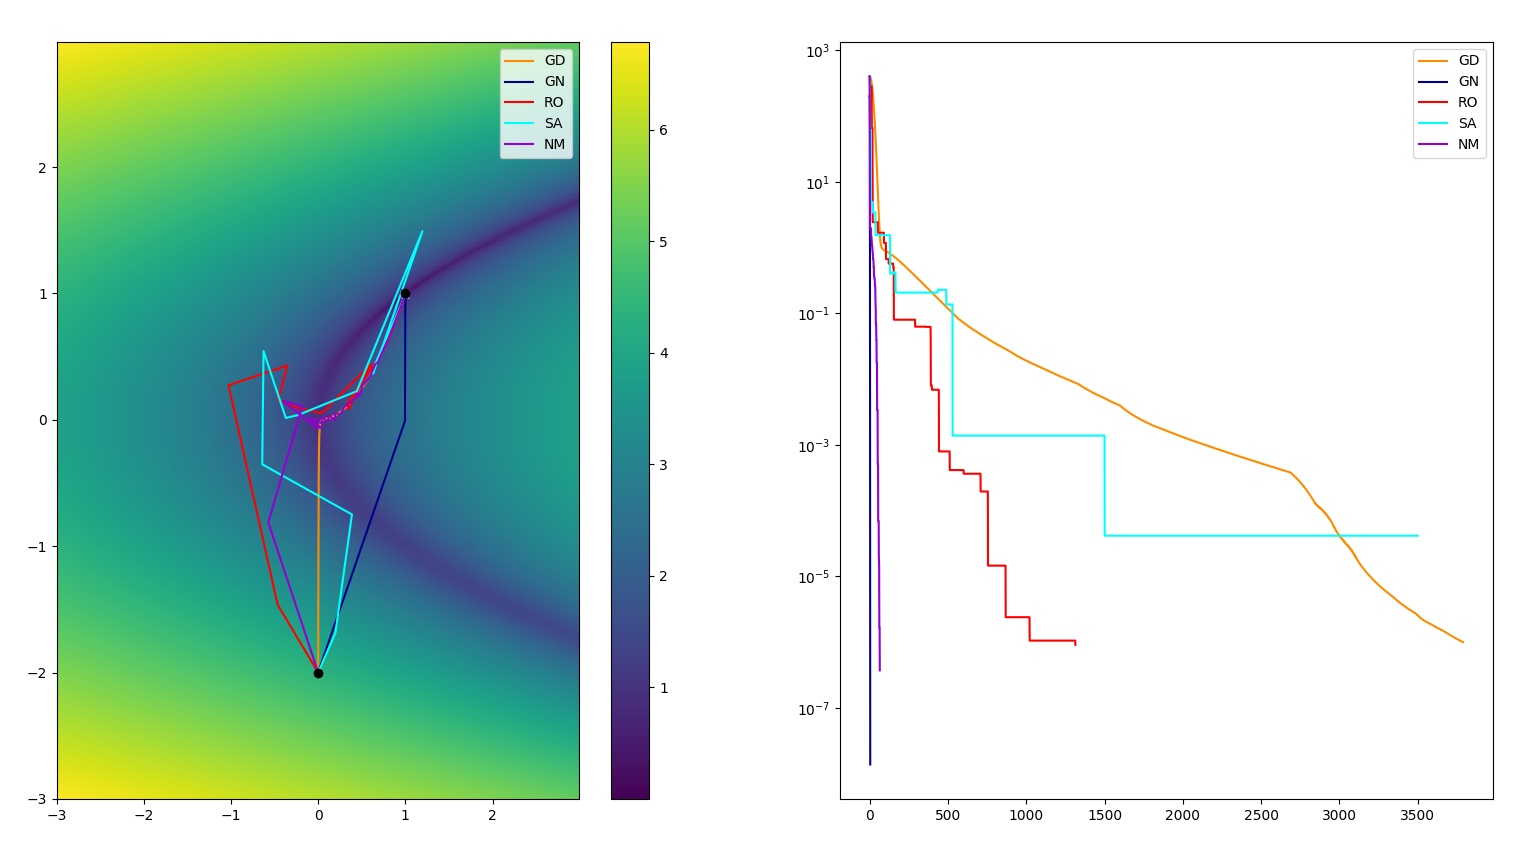
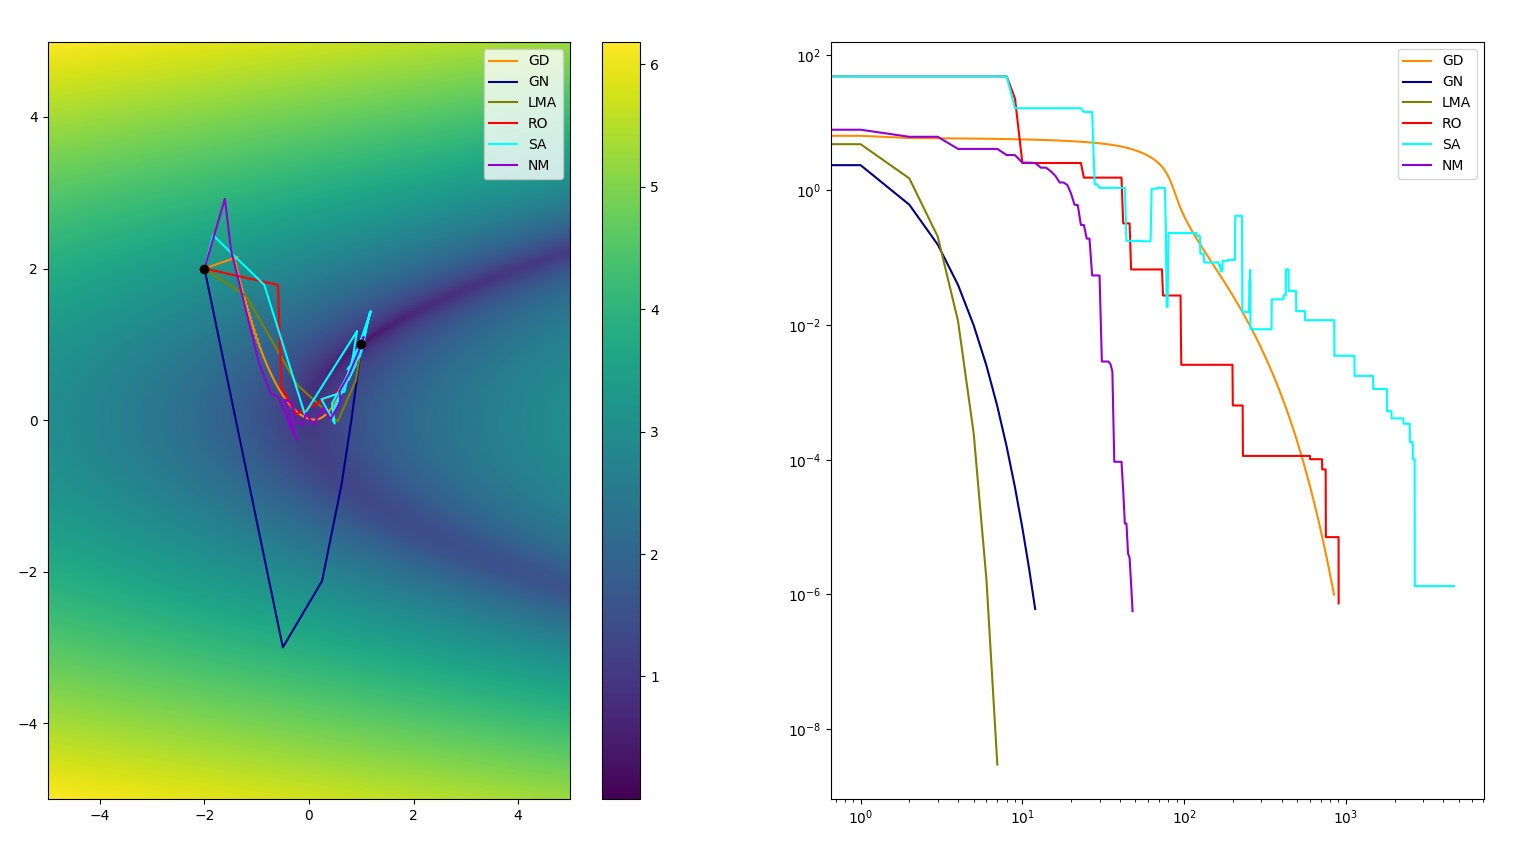
Update samples to include LMA

diff --git a/samples/sample_rosenbrock_minimization.py b/samples/sample_rosenbrock_minimization.py
@@ -5,6 +5,7 @@ from matplotlib import pyplot as plt
 
 from src.gauss_newton import GaussNewton
 from src.gradient_descent import GradientDescent
+from src.levenberg_marquardt import LevenbergMarquardt
 from src.nelder_mead import generate_init_test_points, NelderMead
 from src.random_optimization import RandomOptimization
 from src.simulated_annealing import SimulatedAnnealing
@@ -19,7 +20,7 @@ def f_update(param, k):
     return param + scaling_factors * np.random.randn(param.shape[0])
 
 
-def f_cost(param, a=1, b=100):
+def f_cost(param, a=1, b=10):
     return (a - param[0]) ** 2 + b * (param[1] - param[0] ** 2) ** 2
 
 
@@ -42,7 +43,7 @@ def f_err(param, a=1, b=100):
 def main():
     true_minimum = np.array([1, 1])
 
-    grid = np.arange(-3, 3, 0.01)
+    grid = np.arange(-5, 5, 0.01)
 
     grid_costs = []
     for i, p1 in enumerate(grid):
@@ -50,16 +51,18 @@ def main():
             cost = f_cost(np.array([p1, p2]))
             grid_costs.append(cost)
 
-    init_guess = np.array([0.0, -2.0])
+    # init_guess = np.array([0.0, -2.0])
+    init_guess = np.array([-2.0, 2.0])
 
-    f_step = lambda _: (0, 4e-2)
+    f_step = lambda _: (0, 2e-2)
     f_scaling = lambda k: 0.995 ** k * np.ones(2)
     f_update = lambda p, k: p + 0.999 ** k * np.random.randn(2)
     f_temp = lambda k: 1.0 * np.exp(-0.01 * k)
     init_points_nm = generate_init_test_points(init_guess, 1.0)
     optimizers = {
         "GD": (GradientDescent(f_cost=f_cost, f_step=f_step), "darkorange"),
-        "GN": (GaussNewton(f_err=f_err), "darkblue"),
+        "GN": (GaussNewton(f_err=f_err, step_size_max_iter=0), "darkblue"),
+        "LMA": (LevenbergMarquardt(f_err=f_err), "olive"),
         "RO": (RandomOptimization(f_cost=f_cost, f_scaling=f_scaling), "red"),
         "SA": (SimulatedAnnealing(f_cost=f_cost, f_update=f_update, f_temp=f_temp), "cyan"),
         "NM": (NelderMead(f_cost=f_cost, init_test_points=init_points_nm), "darkviolet")
@@ -81,6 +84,7 @@ def main():
         plt.subplot(1, 2, 2)
         plt.plot(costs, "-", label=name, color=color)
         plt.yscale("log")
+        plt.xscale("log")
         plt.legend()
 
     plt.subplot(1, 2, 1)

diff --git a/samples/sample_cost_surface_visualization.py b/samples/sample_cost_surface_visualization.py
@@ -6,6 +6,7 @@ from matplotlib import pyplot as plt
 
 from src.gauss_newton import GaussNewton
 from src.gradient_descent import GradientDescent
+from src.levenberg_marquardt import LevenbergMarquardt
 from src.nelder_mead import NelderMead, generate_init_test_points
 from src.random_optimization import RandomOptimization
 from src.simulated_annealing import SimulatedAnnealing
@@ -64,11 +65,12 @@ def main():
     f_temp = lambda k: 0.2 * np.exp(-0.05 * k)
     init_points_nm = generate_init_test_points(init_guess, 0.1)
     optimizers = {
-        "GN": (GaussNewton(f_err=partial(f_err, x=x, y=y)), "saddlebrown"),
+        "GN": (GaussNewton(f_err=partial(f_err, x=x, y=y)), "darkblue"),
+        "LMA": (LevenbergMarquardt(f_err=partial(f_err, x=x, y=y)), "olive"),
         "GD": (GradientDescent(f_cost=partial(f_cost, x=x, y=y), f_step=f_step), "darkorange"),
         "RO": (RandomOptimization(f_cost=partial(f_cost, x=x, y=y), f_scaling=f_scaling), "red"),
         "SA": (SimulatedAnnealing(f_cost=partial(f_cost, x=x, y=y), f_update=f_update, f_temp=f_temp), "cyan"),
-        "NM": (NelderMead(f_cost=partial(f_cost, x=x, y=y), init_test_points=init_points_nm), "green")
+        "NM": (NelderMead(f_cost=partial(f_cost, x=x, y=y), init_test_points=init_points_nm), "darkviolet")
     }
 
     for name, (optimizer, color) in optimizers.items():
